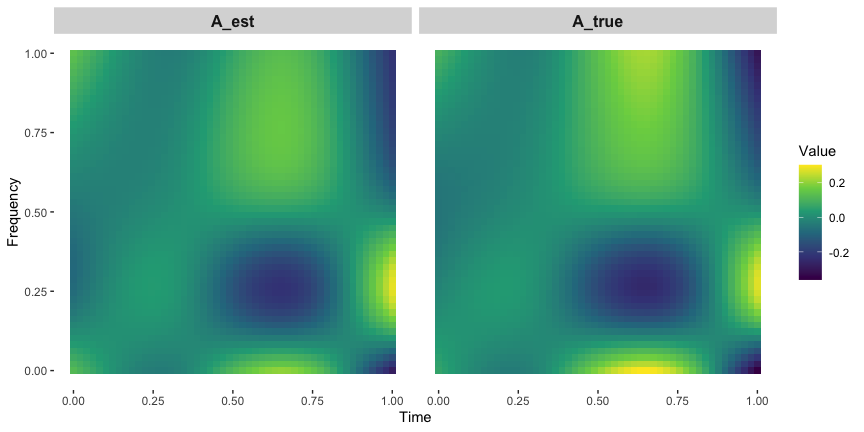
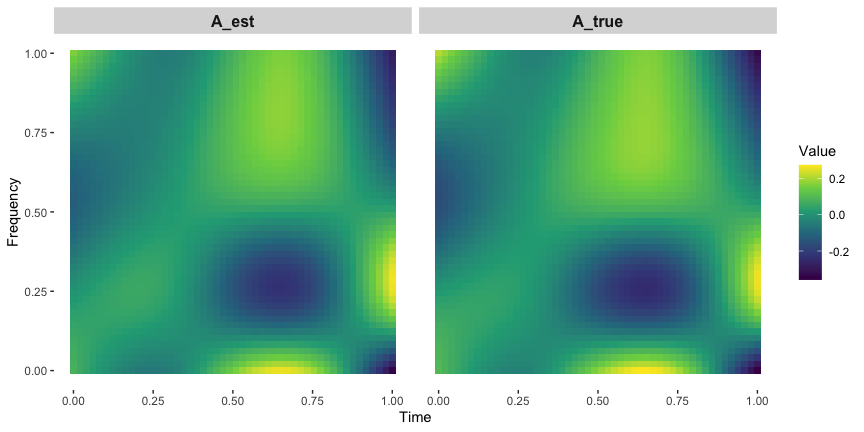
minor edits

diff --git a/README.md b/README.md
@@ -15,13 +15,96 @@ devtools::install_github("xmengju/BMEF")
 
 ## Simulate Data and Fit the Model
 
+``` r
+#library(BMEF)
+devtools::load_all(".")
+```
+
+    ## ℹ Loading BMEF
+
+``` r
+library(pracma)
+library(splines)
+
+# Simulation setup
+n <- 50       # number of subjects
+J <- 4        # number of conditions
+TT <- 50      # time points
+FF <- 50      # frequency points
+K_T <- 4      # time basis functions
+K_F <- 5      # frequency basis functions
+R <- 2        # true rank
+p <- 2        # number of covariates
+
+set.seed(1)
+U <- randortho(K_T)[, 1:R]
+V <- randortho(K_F)[, 1:R]
+X <- cbind(1, runif(n, -3, 3))
+
+Sigma2s <- list(
+  Sigma2_epsilon = 0.05^2,
+  Sigma2_gamma = 0.2^2,
+  Sigma2_omega = runif(n, 0.2^2)
+)
+
+Delta <- array(runif(J * R * p, 0.5, 1), dim = c(J, R, p)) 
+entries_idx <- rbinom(J * R * p, 1, 0.5)
+Delta[entries_idx] <- -Delta[entries_idx]
+
+# Generate synthetic data
+dat <- dat.gen(seed = 1, n, J, TT, FF, K_T, K_F, U, V, Delta, X, Sigma2s)
+
+# Fit BMEF models
+n_burn <- 1000
+n_sample <- 200
+tt <- dat$tt
+ff <- dat$ff
+Y <- dat$Y
+JJ <- matrix(1, n, J)
+R_max <- 4
+
+bmef_1 <- bmef(Y, X, JJ, tt, ff, R = R_max, K_T, K_F, n_burn, n_sample,
+               params = NULL, alg_type = "BMEF-1", threshold = 0.01, save_all = FALSE)
+```
+
+    ## [1] "100-th iteration"
+    ## [1] "200-th iteration"
+    ## [1] "300-th iteration"
+    ## [1] "400-th iteration"
+    ## [1] "500-th iteration"
+    ## [1] "600-th iteration"
+    ## [1] "700-th iteration"
+    ## [1] "800-th iteration"
+    ## [1] "900-th iteration"
+    ## [1] "1000-th iteration"
+    ## [1] "1100-th iteration"
+    ## [1] "1200-th iteration"
+
+``` r
+bmef_2 <- bmef(Y, X, JJ, tt, ff, R = R_max, K_T, K_F, n_burn, n_sample,
+               params = NULL, alg_type = "BMEF-2", threshold = 0.01, save_all = FALSE)
+```
+
+    ## [1] "100-th iteration"
+    ## [1] "200-th iteration"
+    ## [1] "300-th iteration"
+    ## [1] "400-th iteration"
+    ## [1] "500-th iteration"
+    ## [1] "600-th iteration"
+    ## [1] "700-th iteration"
+    ## [1] "800-th iteration"
+    ## [1] "900-th iteration"
+    ## [1] "1000-th iteration"
+    ## [1] "1100-th iteration"
+    ## [1] "1200-th iteration"
+
 ------------------------------------------------------------------------
 
 ## Summary of Posterior Inference
 
 ``` r
 # Posterior inference on fixed and random effects
-bmef_obj <- bmef_1
+bmef_obj <- bmef_2
 cred_level <- 0.95
 
 res_infer_decompose <- inference.decompose.bmef(bmef_obj, cred_level)
